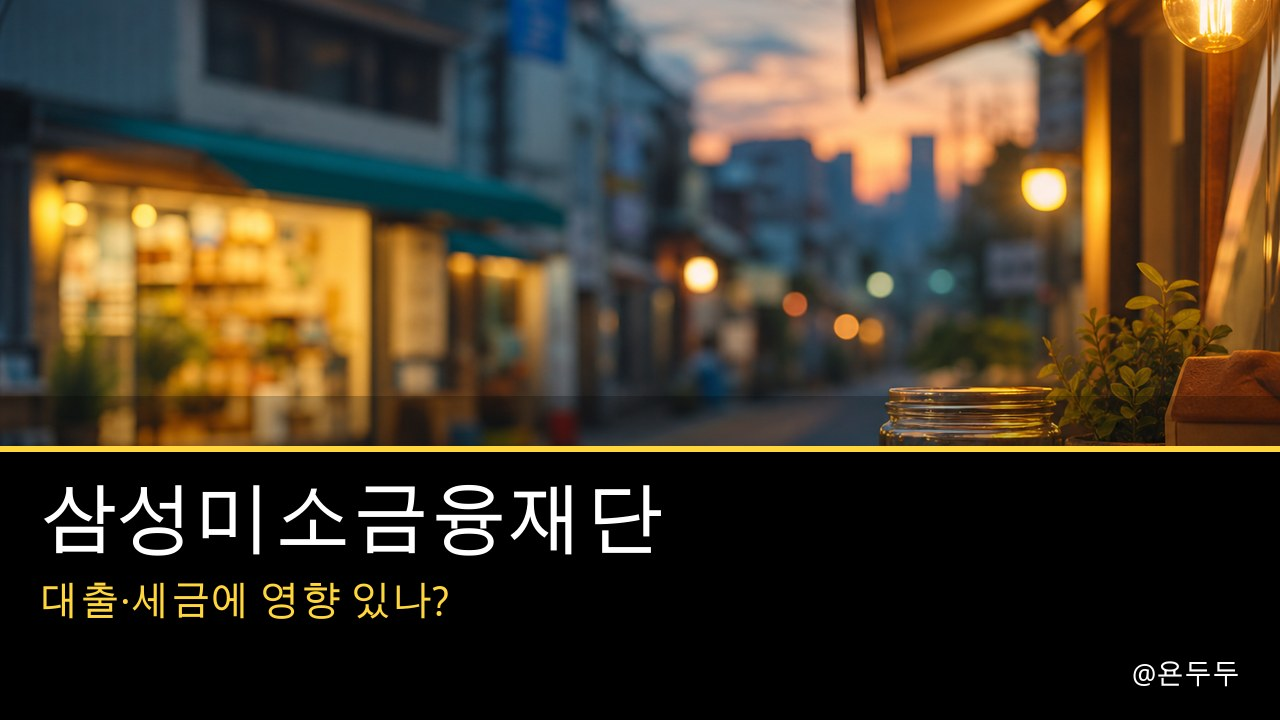
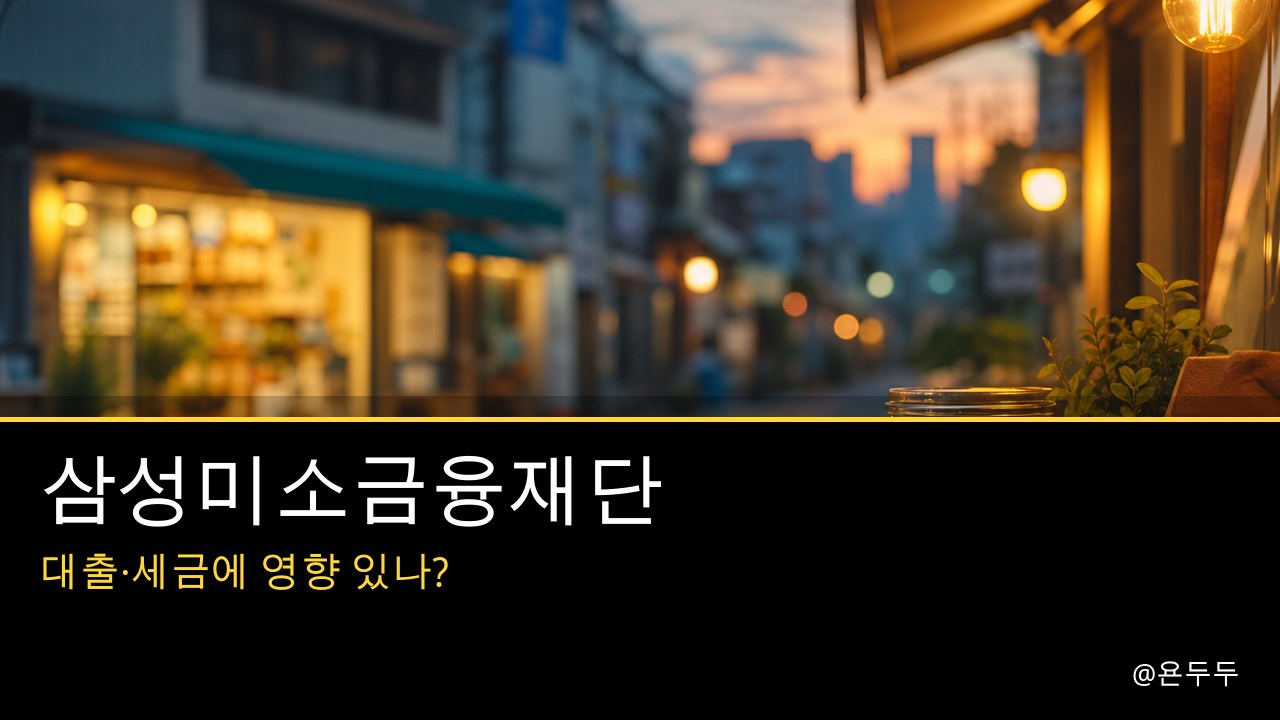
Soften thumbnail lower-third so topic backgrounds stay visible
Replace the opaque black slab with a gradient fade so each
content-matched AI plate remains part of the composition.

Changed region(s): [[0.0, 0.5806, 1.0, 0.8556]]

diff --git a/post_images.py b/post_images.py
@@ -489,9 +489,13 @@ def compose_news_thumbnail(
     width, height = img.size
     draw = ImageDraw.Draw(img)
 
-    banner_top = int(height * 0.62)
-    draw.rectangle([0, banner_top, width, height], fill=(0, 0, 0, 185))
-    draw.rectangle([0, banner_top, width, banner_top + 5], fill=(*accent, 230))
+    # Soft gradient lower-third (not a hard black slab) so topic plates stay visible.
+    banner_top = int(height * 0.58)
+    for y in range(banner_top, height):
+        t = (y - banner_top) / max(1, height - banner_top)
+        alpha = int(90 + 110 * t)  # 90 → 200
+        draw.line([(0, y), (width, y)], fill=(0, 0, 0, alpha))
+    draw.rectangle([0, banner_top, width, banner_top + 4], fill=(*accent, 230))
 
     main_size = 78
     main_font = _pick_font(main_size)
